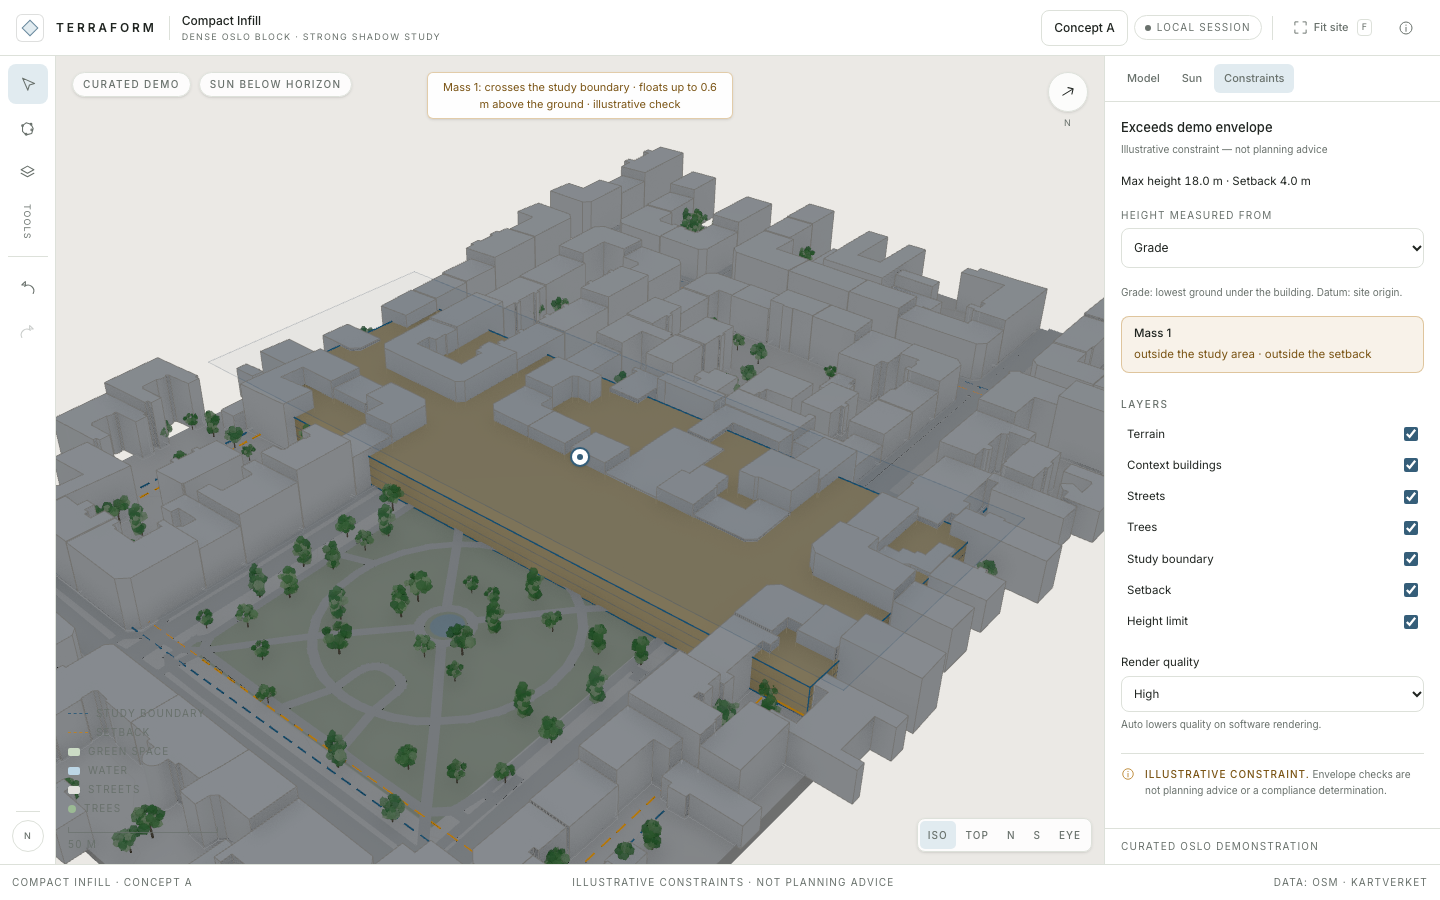
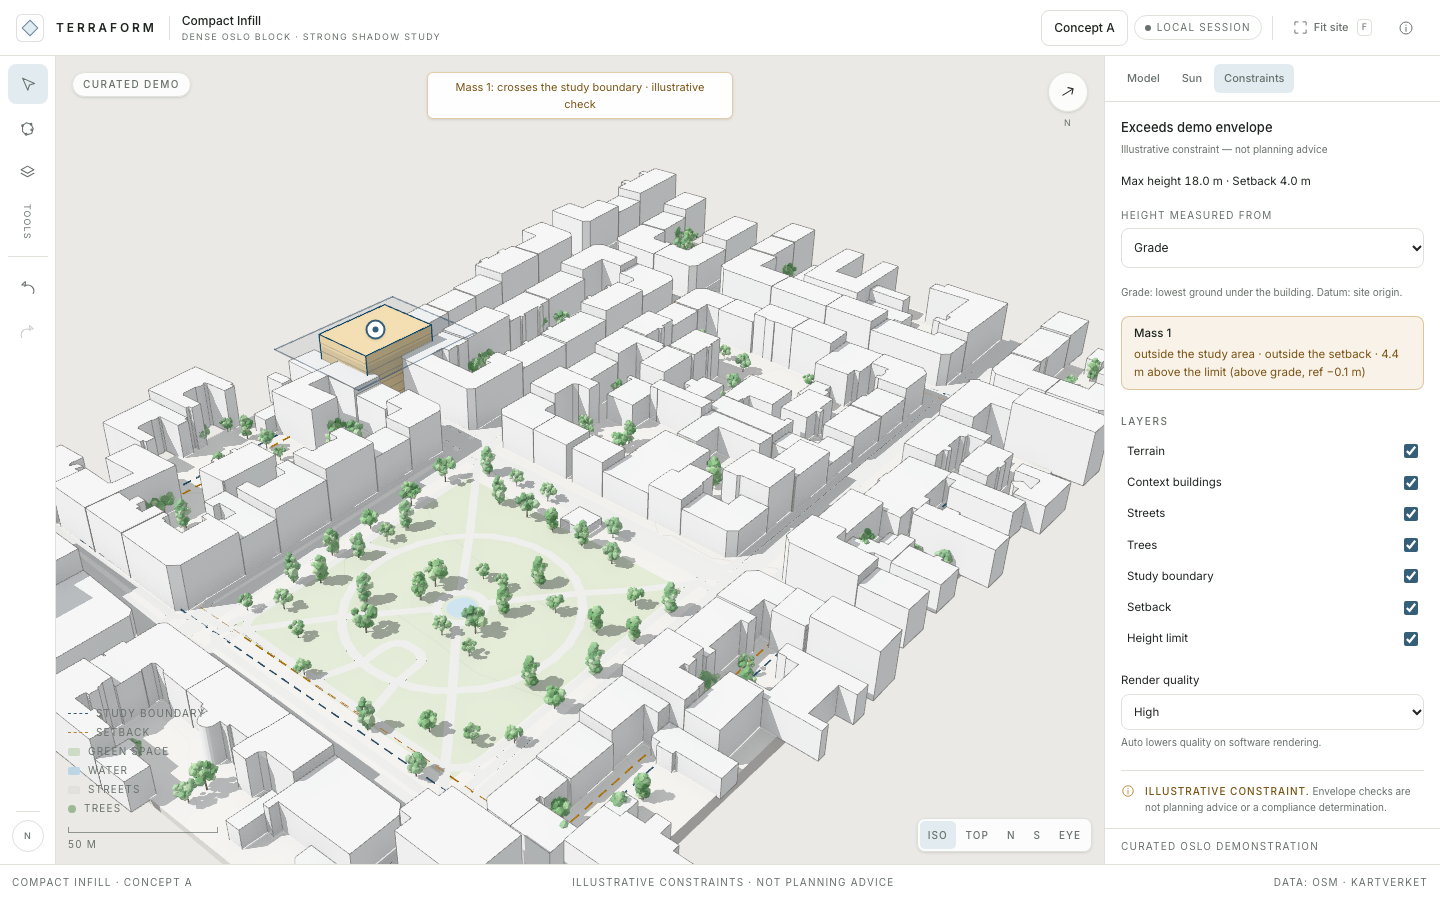
fix(m3): daylight envelope evidence and a readable height-limit plane
Review of DeepSeek round 6: the envelope-violation evidence was taken
at night (state left from the below-horizon shot) with a ~205 × 78 m
slab. The spec now resets to 21 June 15:00 and draws a 24 × 30 m,
7-storey mass across the west boundary, so it shows all three reasons
and the height plane. The per-mass plane hid inside tall masses (5 %
rim, 0.08 opacity); it now has an 8 m / 40 % rim at 0.18 opacity.
ESLint ignores local Python venvs (DeepSeek's finding).

diff --git a/e2e/m3-evidence.spec.ts b/e2e/m3-evidence.spec.ts
@@ -60,9 +60,12 @@ test('D33: captures the fixed-camera M3 evidence set', async ({ page }) => {
   await page.waitForTimeout(1200)
   await shoot('m3-below-horizon-21dec-1800')
 
-  // Envelope violation: draw a mass across the study boundary in the top view, then return to
-  // the Iso preset. The Constraints tab shows Exceeds demo envelope and the warning lists the
-  // setback reason; the selected mass keeps the height-limit plane visible in the close-up.
+  // Envelope violation, in daylight (21 June 15:00, the default view): a realistic ~24 × 30 m
+  // mass straddling the study boundary's west edge (±95 m; terrain ends at ±111.9 m), raised to 7 storeys (22.4 m) so it
+  // also breaks the 18 m limit and the height-limit plane visibly cuts through it.
+  await page.getByRole('button', { name: 'Summer solstice' }).click()
+  await page.getByLabel('Local time').fill('900')
+  await expect(page.getByText('2026-06-21 15:00 CEST')).toBeVisible()
   await page.getByRole('button', { name: 'Top' }).click()
   await page.waitForTimeout(500)
   await page.getByRole('button', { name: 'Draw footprint' }).click()
@@ -71,10 +74,10 @@ test('D33: captures the fixed-camera M3 evidence set', async ({ page }) => {
   if (!box) throw new Error('The 3D site viewport region was not found')
   const cx = box.x + box.width / 2
   const cy = box.y + box.height / 2
-  // 0.26 × viewport height east/west ≈ ±103 m: across the ±95 m boundary, inside the terrain grid.
-  const step = Math.round(box.height * 0.26)
-  for (const [dx, dy] of [[-step, -80], [step, -80], [step, 80], [-step, 80]]) {
-    await page.mouse.click(cx + dx, cy + dy)
+  // Top view scale: 0.26 × viewport height ≈ 103 m, so metres → px = box.height * 0.26 / 103.
+  const px = (metres: number) => Math.round((metres * box.height * 0.26) / 103)
+  for (const [east, north] of [[-106, 15], [-82, 15], [-82, -15], [-106, -15]]) {
+    await page.mouse.click(cx + px(east), cy - px(north))
   }
   await page.getByRole('button', { name: 'Draw footprint' }).evaluate((button) => button.blur())
   await page.keyboard.press('Enter')
@@ -82,18 +85,23 @@ test('D33: captures the fixed-camera M3 evidence set', async ({ page }) => {
   // The created mass is selected; confirm on the Model tab (the Name field lives there).
   await page.getByRole('tab', { name: 'Model' }).click()
   await expect(page.getByLabel('Name')).toHaveValue('Mass 1')
+  const storeys = page.getByRole('textbox', { name: 'Storeys' })
+  await storeys.fill('7')
+  await storeys.press('Enter')
+  await expect(storeys).toHaveValue('7')
 
   await page.getByRole('button', { name: 'Iso' }).click()
   await page.waitForTimeout(800)
   await page.getByRole('tab', { name: 'Constraints' }).click()
   await expect(page.getByRole('heading', { name: 'Exceeds demo envelope' })).toBeVisible()
   await expect(page.getByRole('button', { name: /outside the setback/ })).toBeVisible()
+  await expect(page.getByRole('button', { name: /above the limit/ })).toBeVisible()
   await page.waitForTimeout(1500)
   await shoot('m3-envelope-violation-iso')
 
   // Close-up: dolly towards the target so the translucent height-limit plane above the mass reads.
   await page.mouse.move(cx, cy)
-  for (let index = 0; index < 5; index += 1) {
+  for (let index = 0; index < 3; index += 1) {
     await page.mouse.wheel(0, -700)
     await page.waitForTimeout(250)
   }

diff --git a/src/scene/ConstraintLayer.tsx b/src/scene/ConstraintLayer.tsx
@@ -20,6 +20,9 @@ export type ConstraintLayerProps = {
 const noRaycast = () => null
 const AMBER = '#B8822B'
 const ACCENT = '#355E79'
+/** Margin of the per-mass height-limit plane beyond the footprint: at least 8 m or 40 % of its span. */
+const PLANE_RIM_M = 8
+const PLANE_RIM_FRACTION = 0.4
 
 function DrapedRing({ ring, sitePackage, dashed = false }: { ring: Ring; sitePackage: SitePackage; dashed?: boolean }) {
   const first = ring[0]
@@ -40,8 +43,10 @@ export function ConstraintLayer({ sitePackage, constraints, envelope, selectedVo
   const north = footprint.map((point) => point[1])
   const minEast = Math.min(...east), maxEast = Math.max(...east)
   const minNorth = Math.min(...north), maxNorth = Math.max(...north)
-  const paddingEast = datum ? 0 : (maxEast - minEast) * 0.05
-  const paddingNorth = datum ? 0 : (maxNorth - minNorth) * 0.05
+  // A per-mass plane needs a visible rim around the building, or it hides inside a tall mass.
+  const rim = (span: number) => (datum ? 0 : Math.max(PLANE_RIM_M, span * PLANE_RIM_FRACTION))
+  const paddingEast = rim(maxEast - minEast)
+  const paddingNorth = rim(maxNorth - minNorth)
   const west = minEast - paddingEast, right = maxEast + paddingEast
   const south = minNorth - paddingNorth, top = maxNorth + paddingNorth
   const outline: [number, number, number][] = [[west, elevation, -south], [right, elevation, -south], [right, elevation, -top], [west, elevation, -top], [west, elevation, -south]]
@@ -54,9 +59,9 @@ export function ConstraintLayer({ sitePackage, constraints, envelope, selectedVo
     {showPlane && <>
       <mesh position={enuToThreeXyz([(west + right) / 2, (south + top) / 2, elevation])} rotation={[-Math.PI / 2, 0, 0]} raycast={noRaycast}>
         <planeGeometry args={[right - west, top - south]} />
-        <meshBasicMaterial color={ACCENT} transparent opacity={0.08} depthWrite={false} side={DoubleSide} />
+        <meshBasicMaterial color={ACCENT} transparent opacity={0.18} depthWrite={false} side={DoubleSide} />
       </mesh>
-      <Line points={outline} color={ACCENT} lineWidth={1} transparent opacity={0.35} depthWrite={false} raycast={noRaycast} />
+      <Line points={outline} color={ACCENT} lineWidth={1.5} transparent opacity={0.7} depthWrite={false} raycast={noRaycast} />
     </>}
   </group>
 }

diff --git a/src/scene/ConstraintLayer.test.tsx b/src/scene/ConstraintLayer.test.tsx
@@ -35,8 +35,8 @@ describe('ConstraintLayer', () => {
     const mesh = nodes.find((node) => node.type === 'mesh')
     expect(mesh?.props.position).toEqual([0, heightReference === 'grade' ? 17 : 18, -0])
     expect(mesh?.props.raycast?.()).toBeNull()
-    expect(nodes.find((node) => node.type === 'planeGeometry')?.props.args).toEqual(heightReference === 'grade' ? [22, 11] : [40, 50])
-    expect(nodes.find((node) => node.type === 'meshBasicMaterial')?.props).toMatchObject({ opacity: 0.08, depthWrite: false })
+    expect(nodes.find((node) => node.type === 'planeGeometry')?.props.args).toEqual(heightReference === 'grade' ? [36, 26] : [40, 50])
+    expect(nodes.find((node) => node.type === 'meshBasicMaterial')?.props).toMatchObject({ opacity: 0.18, depthWrite: false })
   })
 
   it('does not render a grade plane without a selection', () => {

diff --git a/eslint.config.js b/eslint.config.js
@@ -9,6 +9,8 @@ export default tseslint.config(
       'dist/**',
       'coverage/**',
       'playwright-report/**',
+      // Local Python venvs (e.g. docs/qa/sun-reference) ship vendored JS that is not ours.
+      '**/venv/**',
       'test-results/**',
       'node_modules/**',
     ],

diff --git a/docs/agent-log.md b/docs/agent-log.md
@@ -67,3 +67,4 @@ Record every meaningful agent engagement. The point is to preserve **why** an ou
 | 2026-10-28 | M3 (scene) | Codex | C11 night state, render quality profiles, no-WebGL fallback (`docs/handoffs/C11-night-quality-fallback.md`) | `src/scene/{lighting,renderQuality,webglSupport,ViewportCanvas,CameraHud,SceneErrorBoundary}.ts(x)`, `src/components/studio/{StudioShell,Inspector}.tsx`, `e2e/m3-rendering.spec.ts` | Accepted (Claude review) | Codex sandbox could not run Playwright; Claude ran e2e 12/12 and checked the daytime look at High. Claude also pinned `scripts/capture.mjs` to High so headless evidence keeps shadows/AO. |
 | 2026-10-29 | M3 (domain) | Claude Fable 5.1 / `engineering-senior-developer` | F1–F5 domain core on `m3/domain` (`docs/plans/M3-fable-plan.md` §2): time model, sun state, level-indexed GFA, constraint envelope, parcel coverage, NOAA oracle | `src/features/analysis/{time,sun,constraints}.ts` (+tests), `src/features/analysis/{sun-reference.test.ts,__fixtures__/noaa-oracle.ts}`, `src/features/massing/metrics.ts` (+test), `src/lib/clip.ts` (+test), `docs/decisions/ADR-0007-floor-level-gfa.md`, `ADR-0008-height-reference.md`, `docs/qa/fixtures.md`, `docs/handoffs/M3-fable-remaining.md`; commits `737de0e`…`dd8b84b` | Pending Claude review and ADR-0007/0008 acceptance by the owner | 669 tests (was 445); lint, typecheck, build pass. Every fixtures §2–§4 row names its test; QA-10/QA-11 covered. Contract changes vs plan §6 and the decisions needed are in the handoff §2–§3. Fixed a pre-existing `no-undef` in `scripts/capture.mjs` with a directive. |
 | 2026-10-29 | M3 (UI) | Codex | C8–C10 sun tab, metrics panel, constraints tab and layers (`docs/handoffs/C8-C10-m3-ui.md`) | `src/components/studio/{Sun,Metrics,Constraints}Panel.tsx`, `format.ts`, `StudioShell`, `Inspector`, `src/scene/{ConstraintLayer,ViewportCanvas,CameraHud}.tsx` | Accepted (Claude review + browser check) | 694 tests, e2e 12/12. Claude verified in the browser: 21 Jun 15:00 = 217°/49.5°, noon 151°/51.0° matches NREL; night chip at 21 Dec 18:00; envelope warning, amber tint, metrics match hand calculation (GFA 3 309 m², coverage 1.5 %, ratio 0.07 for 45 600 m²). Note: Codex attempted computer use on Safari (refused); future work orders forbid it. Height-limit plane is subtle at 0.08 opacity — D33 close-up. |
+| 2026-10-29 | M3 (QA) | DeepSeek V4 Flash (Antigravity) | D32 e2e, D33 evidence, D34 claims audit (round 6) | `e2e/m3-{analysis,disclaimers,evidence}.spec.ts`, `src/components/studio/claims.test.tsx`, `docs/screenshots/m3-*`, `docs/reviews/M3-evidence.md` | Accepted with fixes (Claude) | Claude viewed all 7 images: 5 good; the two envelope-violation shots were taken at night with a ≈205 × 78 m slab — spec fixed (daylight, 24 × 30 m, 7 storeys) and recaptured. Height-limit plane made readable (0.18 opacity, 8 m / 40 % rim). ESLint now ignores `**/venv/**` (DeepSeek's finding). |

diff --git a/docs/reviews/M3-evidence.md b/docs/reviews/M3-evidence.md
@@ -100,8 +100,8 @@ envelope shots.
 | `docs/screenshots/m3-evening-21jun-1440x900.png` | 21 June 18:00. Iso view, sun low to the west (azimuth ≈ 266°, elevation ≈ 30°): long east-falling shadows; Evening preset pressed. |
 | `docs/screenshots/m3-noon-21dec-1440x900.png` | 21 December 12:00. Iso view, winter sun barely above the horizon (azimuth ≈ 177°, elevation ≈ 6.7°): very long, nearly due-north shadows; Winter solstice + Noon pressed. |
 | `docs/screenshots/m3-below-horizon-21dec-1800-1440x900.png` | 21 December 18:00 (sun elevation ≈ −18°). Iso view, night state: no directional light, colder hemisphere light, the "Sun below horizon" chip top-left over the canvas and the same text in the Sun readout; no elevation/direction line. |
-| `docs/screenshots/m3-envelope-violation-iso-1440x900.png` | A newly drawn mass (≈ 205 × 78 m) crossing the east and west study boundaries. Iso view with the Constraints tab open: status headline "Exceeds demo envelope" with "Illustrative constraint — not planning advice" beneath it, the amber warning button listing "outside the study area · outside the setback", and the amber dashed outside-setback/solid outside-boundary highlights draped on the terrain plus the amber mass tint. |
-| `docs/screenshots/m3-envelope-violation-closeup-1440x900.png` | The same violating mass zoomed in (dollied along the Iso axis). The translucent height-limit plane at maxHeight (18 m above grade) should be visible as a faint sheet with a thin outline floating above the 9.6 m mass, and the amber outside-setback rings should hug its east/west edges. |
+| `docs/screenshots/m3-envelope-violation-iso-1440x900.png` | Daylight (21 June 15:00). A ≈ 24 × 30 m, 7-storey (22.4 m) mass straddling the study boundary's west edge. Constraints tab: "Exceeds demo envelope" with "Illustrative constraint — not planning advice" beneath it; the warning lists "outside the study area · outside the setback · 4.4 m above the limit (above grade, ref −0.1 m)"; amber mass tint and amber setback/boundary lines; the translucent height-limit plane at 18 m above grade, with the mass rising 4.4 m through it. *(Recaptured by Claude: the first capture was taken at night with a ≈ 205 × 78 m slab.)* |
+| `docs/screenshots/m3-envelope-violation-closeup-1440x900.png` | The same scene dollied in. The height-limit plane (accent, 0.18 opacity, 8 m minimum rim around the footprint) reads as a lid at 18 m that the 22.4 m mass pierces. |
 
 Shadow-direction orientation for the visual review: on 21 June the sun is south of the site all
 day, so any mass south of another casts northward — especially clear in `m3-noon-21jun`.
